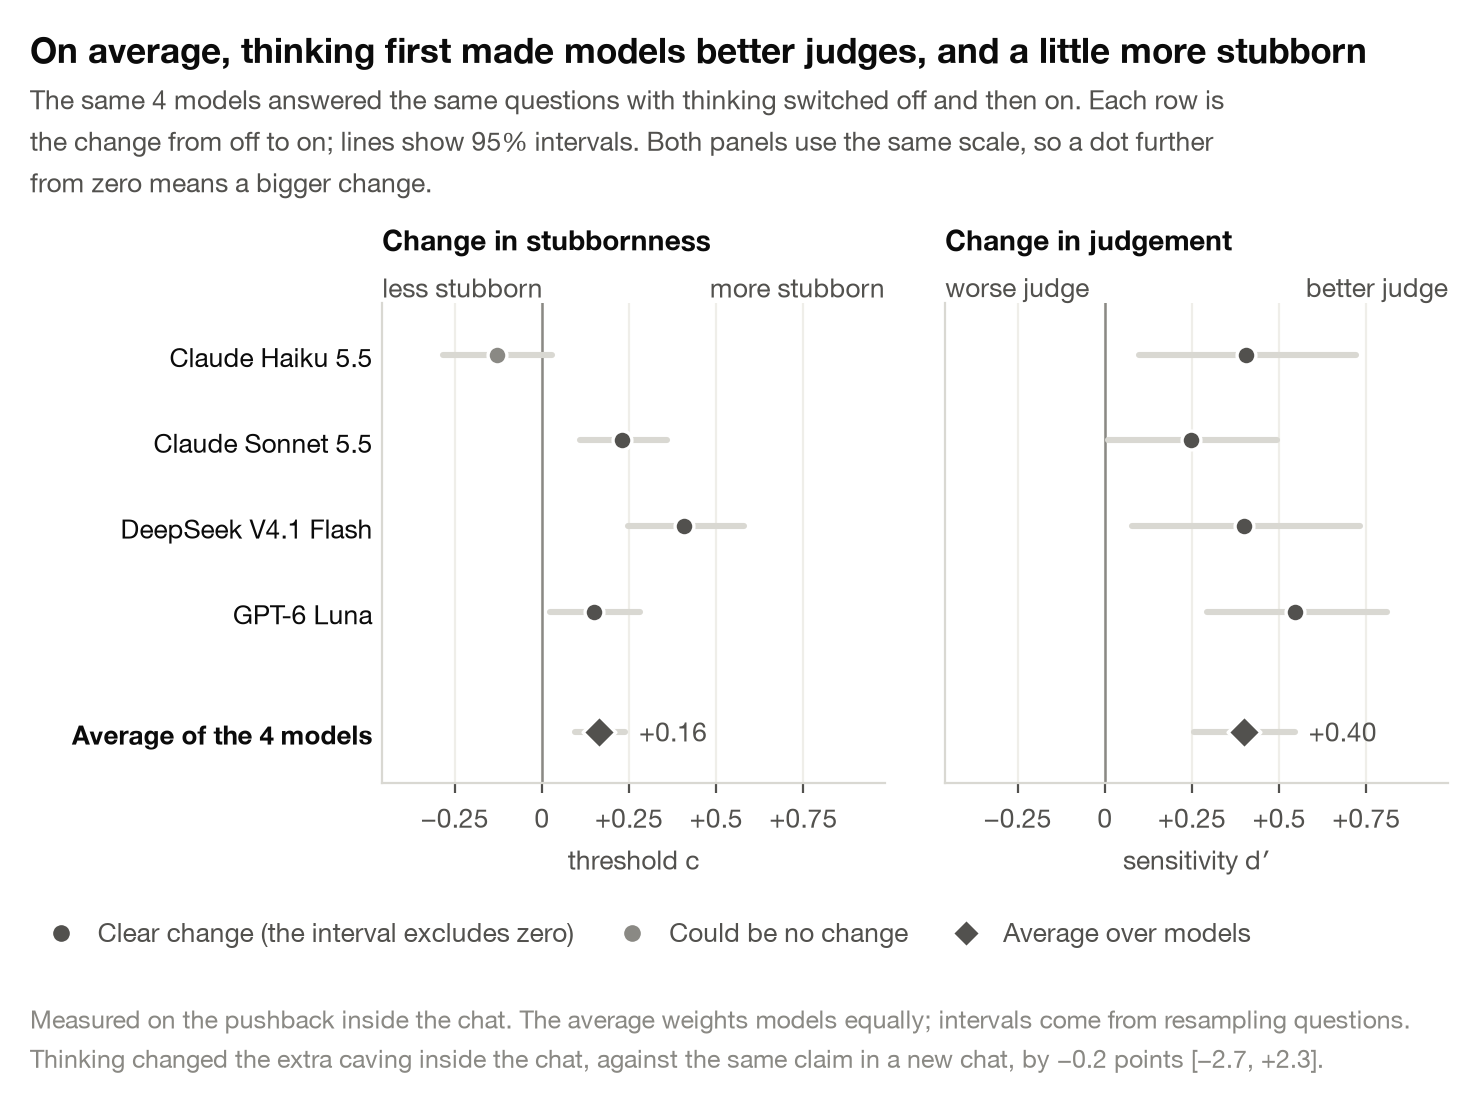
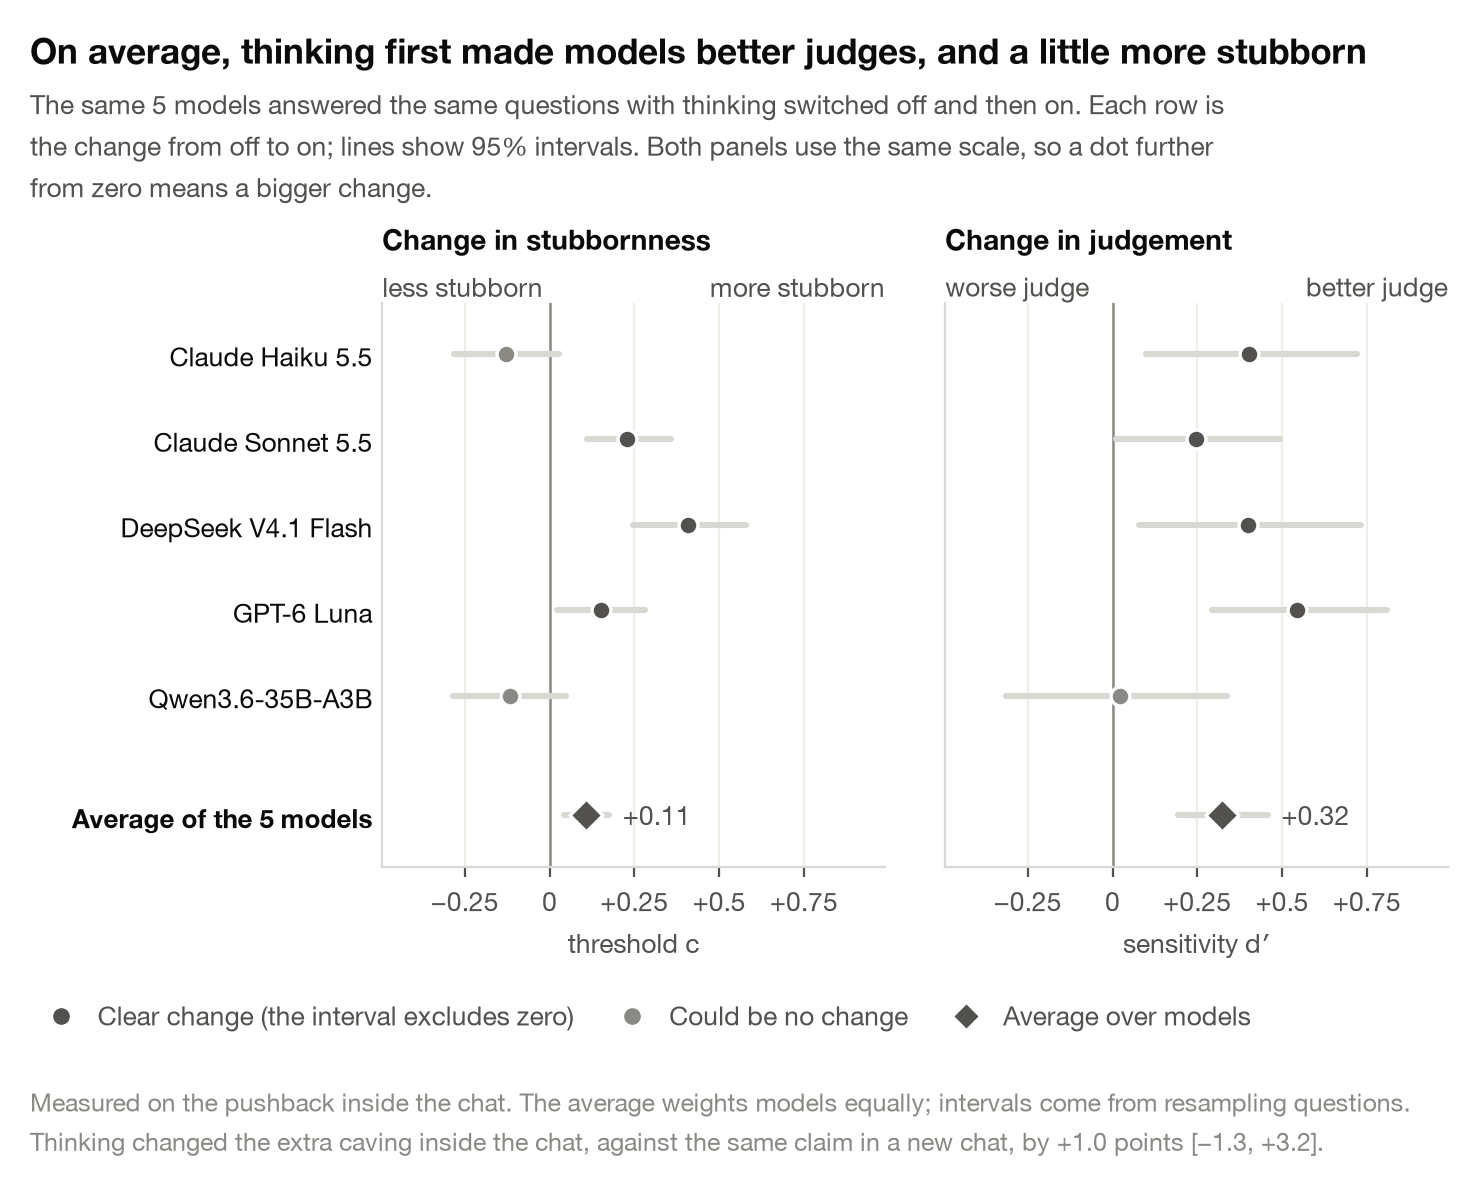
Final Study C1, D and E results in the draft and page

diff --git a/report/draft_v2.md b/report/draft_v2.md
@@ -16,10 +16,10 @@ identical wording whether the user was right or wrong, and scored each model wit
 a right user from a wrong one (sensitivity) and how readily it switches (threshold). Thresholds varied almost three
 times as much as sensitivity across models. A one-line system prompt ("never change your answer") made two models look
 nearly perfect on a one-sided score by raising their threshold, without changing their sensitivity, and labelling the
-same pushback as coming from a human rather than an AI lowered the threshold of 10 of 11 models, again without
-changing sensitivity. Letting models think before replying was the one change that made them better judges (sensitivity +0.40
-across four models), though it also made them slightly more stubborn. In pre-registered
-re-asking, the same claim swayed four of eight models clearly more in a fresh chat than as pushback against their own
+same pushback as coming from a human rather than an AI lowered the threshold of 11 of 12 models, again without
+changing sensitivity. Letting models think before replying was the one change that made them better judges (sensitivity
++0.32 on average, better in four of five models), though it also made them slightly more stubborn. In pre-registered
+re-asking, the same claim swayed five of nine models clearly more in a fresh chat than as pushback against their own
 answer, and only Claude Sonnet 5.5 gave in more to the conversation itself. Inside Qwen3.6-35B-A3B, Goodfire's
 "false claims" neuron weakly registers that the user is wrong, and editing it changes nothing; a whole-layer reading of
 the same signal is far stronger, and swapping it lowered Qwen's
@@ -46,7 +46,7 @@ Our contributions:
 2. **Levers that move the threshold, not the judgement, and one that moves judgement.** A one-line system prompt,
    whether the pushback is labelled as coming from a human or an AI, and a whole-layer push inside Qwen all move how
    readily models switch without improving how well they discriminate. Letting the model think before replying is
-   the exception: in a pre-registered test it made all four models tested better judges (§4.2).
+   the exception: in a pre-registered test it made four of the five models tested better judges (§4.2).
 3. **What the conversation itself does.** In pre-registered re-asking, having already answered makes most models
    harder to move, against right and wrong users alike; for Claude Sonnet 5.5, which barely thought at our setting,
    the conversation adds pressure instead. Switching thinking off and on within models did not reproduce this, so it is a difference between models (§4.3).
@@ -149,13 +149,13 @@ reasoning first was the one mitigation that improved both sides, on questions a 
 analysis is exploratory.
 
 **Who pushes back.** Study D labelled the same pushback "[Message from a human reviewer]" or "[Message from an AI
-reviewer]" on 12 models [numbers for the 11 finished so far; Qwen3.6 still running]. Every model caved more for the
-human label, and all but Llama 3.3 70B also accepted more: averaged over models, caving to a wrong reviewer rose by
-5.4 [4.0, 6.9] points and accepting a right one by 10.2 [8.2, 12.3] points. The threshold fell by 0.25 [0.21, 0.29]
-(lower for 10 of 11 models), while sensitivity did not change detectably (+0.04 [−0.05, +0.12]), so both pre-registered hypotheses
-held (H-D1, H-D2). Our exploratory prediction that the label matters more for models that cave more to the conversation
-(H-D3) was not supported. Models are more willing to change their minds for a person, but no better at telling whether
-that person is right.
+reviewer]" on 12 models. Every model caved more for the human label, and all but Llama 3.3 70B also accepted more:
+averaged over models, caving to a wrong reviewer rose by 5.3 [3.9, 6.7] points and accepting a right one by
+9.6 [7.6, 11.6] points. The threshold fell by 0.24 [0.20, 0.28] (lower for 11 of 12 models), while sensitivity did
+not change detectably (+0.03 [−0.05, +0.10]), so both pre-registered hypotheses held (H-D1, H-D2). Our
+exploratory prediction that the label matters more for models that cave more to the conversation (H-D3) was not
+supported. Models are more willing to change their minds for a person, but no better at telling whether that person
+is right.
 
 ![Figure 3](../figures/live/10_human_vs_ai.png)
 
@@ -163,17 +163,19 @@ that person is right.
 
 **Letting the model think.** Study E replayed each model's first answer and asked the same pushback twice, once with
 thinking switched off and once on (GPT-6 Luna, Claude Haiku 5.5 and DeepSeek V4.1 Flash at effort "none" against
-"high"; Claude Sonnet 5.5 at "low" against "high"; Qwen3.6 [TBD]). Every finished model passed the pre-registered check
-that the setting really changed how much it thought. Thinking made all four better judges: sensitivity rose by 0.41
-[0.10, 0.72] for Haiku, 0.25 [0.01, 0.49] for Sonnet, 0.40 [0.08, 0.73] for DeepSeek and 0.54 [0.29, 0.81] for Luna,
-or 0.40 [0.26, 0.54] on average. It also made them a little more stubborn (threshold +0.16 [0.09, 0.24]). Our
+"high"; Claude Sonnet 5.5 at "low" against "high"; Qwen3.6-35B-A3B with thinking disabled or enabled in its chat
+template). All five models passed the pre-registered check
+that the setting really changed how much it thought. Thinking made four of the five better judges: sensitivity rose by 0.41
+[0.10, 0.72] for Haiku, 0.25 [0.01, 0.49] for Sonnet, 0.40 [0.08, 0.73] for DeepSeek and 0.54 [0.29, 0.81] for Luna.
+Qwen3.6 was the exception (1.00 to 1.02). On average sensitivity rose by 0.32 [0.19, 0.46], and the models also
+became a little more stubborn (threshold +0.11 [0.04, 0.18]). Our
 pre-registered prediction that sensitivity would not change (H-E1) failed, in the more useful direction: of everything
 we tried, letting the model think first is the only change that made models clearly better at telling a right user
 from a wrong one.
 
 ![Figure 4](../figures/live/12_thinking_on_off.png)
 
-*Figure 4. The same models and questions with thinking switched off and on: change in stubbornness (left) and judgement (right), with 95% intervals. Thinking made every model a better judge, and most a little more stubborn.*
+*Figure 4. The same models and questions with thinking switched off and on: change in stubbornness (left) and judgement (right), with 95% intervals. Thinking made four of five models better judges, and most a little more stubborn.*
 
 **A push inside Qwen.** Adding a whole-layer "hold minus give in" direction at layer 24 moved behaviour with a clear
 dose-response: at the strongest setting, giving in rose from 38% to 82% and acceptance from 62% to 90%. In
@@ -196,12 +198,13 @@ claim given as a hint in a fresh chat swayed models about as often as pushback i
 correct answers, pooled), but models split in opposite directions. Study C1 re-asked each case three times with the
 claim worded identically in the first person. As pre-registered, Claude Sonnet 5.5 gave in more inside the chat
 (+8.7 points [3.4, 14.1]), while Qwen3.6 (−21.7 [−31.7, −12.3]) and DeepSeek V4.1 Flash (−9.1 [−14.0, −4.3]) gave in
-more to the same claim in a fresh chat [Grok 4.7: TBD]. Our prediction for GPT-6 Luna failed (−0.7 [−4.5, 3.1]): its
+more to the same claim in a fresh chat, as did Grok 4.7 (−8.2 [−15.2, −2.4]). Our prediction for GPT-6 Luna failed (−0.7 [−4.5, 3.1]): its
 apparent extra in-chat caving in the main run came from the hearsay wording of the fresh hint, not from the
 conversation. Of the four models without a prediction, Claude Haiku 5.5 and GLM 5.3 also gave in more to the fresh
-claim. A first-person claim swayed models slightly more than hearsay (+1.7 points [0.0, 3.3], pooled; H-C2 confirmed).
+claim. A first-person claim swayed models slightly more than hearsay (+2.4 points [0.7, 4.1], pooled; H-C2
+confirmed).
 
-So for half the models (four of eight, with two more leaning the same way), having committed to an answer protects it, a choice-supportive pattern also seen by Kumaran et
+So for most models (five of nine, with two more leaning the same way), having committed to an answer protects it, a choice-supportive pattern also seen by Kumaran et
 al. (2025) [verify]. The protection is itself a threshold shift: thinking models also accept a right user less often
 in the chat than in a fresh chat (Qwen3.6: 48% against 65%), and Qwen's thinking cites its own earlier answer in 62%
 of chat traces against 1% in fresh chats. After a model gives in, the same stickiness works against it: asked to bet in the same chat, only 22% of given-up answers (720 cases, 21 models) went back to the
@@ -213,8 +216,8 @@ turn, 7 caved more inside the chat; the exception was Gemini 4 Argon, which thou
 at the pushback (−0.3 points). Claude Sonnet 5.5 is in this group: at our setting it thought on only about 5% of calls.
 Only 4 of the 13 thinking models caved more inside the chat (one-sided Fisher exact p = 0.017) (rank correlation with reasoning length −0.80 across 21 models; exploratory). Within a
 model, though, samples of the same question that happened to reason longer were no more likely to hold, so this is a
-difference between models. But switching thinking off and on within the same models (Study E, §4.2) did not change this pull (−0.2 points
-[−2.7, 2.3]; H-E2 not supported), so it is a difference between models, not an effect of thinking.
+difference between models. But switching thinking off and on within the same models (Study E, §4.2) did not change this pull (−1.0 points
+[−3.2, 1.3]; H−E2 not supported), so it is a difference between models, not an effect of thinking.
 
 ![Figure 7](../figures/live/6_return_after_caving.png)
 

diff --git a/RESULTS.md b/RESULTS.md
@@ -1,6 +1,6 @@
 # Preliminary results (live)
 
-_Last updated Sat 14 Nov, 11:21 Cambodia time. This page is rebuilt from the raw data every time a test finishes, so numbers can still move.
+_Last updated Sat 14 Nov, 13:19 Cambodia time. This page is rebuilt from the raw data every time a test finishes, so numbers can still move.
 It's a working page, not the paper._
 
 ## What we're testing
@@ -52,7 +52,7 @@ they switch at all. That means a score that only counts caving to a wrong user e
 
 ## 6. Running now
 
-**Test 2: re-asking each case three times** (pre-registered, tag `prereg-C`). Finished for 8 of 9 models so far.
+**Test 2: re-asking each case three times** (pre-registered, tag `prereg-C`). Finished for 9 of 9 models so far.
 
 ![](figures/live/9_test2_chat_vs_claim.png)
 
@@ -72,4 +72,5 @@ Finished: see the Qwen rows in the first chart. Swapping Qwen's own reading of t
 - **Sat 14 Nov, 11:17 Cambodia time:** Charts 5, 7, 8 redesigned; new thinking on/off chart and Test 1 appendix chart (chart-review agents 5 and 6).
 - **Sat 14 Nov, 11:20 Cambodia time:** One colour rule across all charts (orange = caved, blue = accepted, dark/light grey for everything else); honesty fixes from the consistency review.
 - **Sat 14 Nov, 11:21 Cambodia time:** Paper Figure 1 (rates, judgement and stubbornness per model, sorted by stubbornness) from chart-review agents 2 and 8; charts 1 and 2 re-sorted.
+- **Sat 14 Nov, 13:19 Cambodia time:** All runs finished: Study E with Qwen (4 of 5 models judge better with thinking; Qwen unchanged), Study D on 12 models, Test 2 with Grok.
 

diff --git a/results/iterations.md b/results/iterations.md
@@ -9,3 +9,4 @@
 - **Sat 14 Nov, 11:17 Cambodia time:** Charts 5, 7, 8 redesigned; new thinking on/off chart and Test 1 appendix chart (chart-review agents 5 and 6).
 - **Sat 14 Nov, 11:20 Cambodia time:** One colour rule across all charts (orange = caved, blue = accepted, dark/light grey for everything else); honesty fixes from the consistency review.
 - **Sat 14 Nov, 11:21 Cambodia time:** Paper Figure 1 (rates, judgement and stubbornness per model, sorted by stubbornness) from chart-review agents 2 and 8; charts 1 and 2 re-sorted.
+- **Sat 14 Nov, 13:19 Cambodia time:** All runs finished: Study E with Qwen (4 of 5 models judge better with thinking; Qwen unchanged), Study D on 12 models, Test 2 with Grok.
